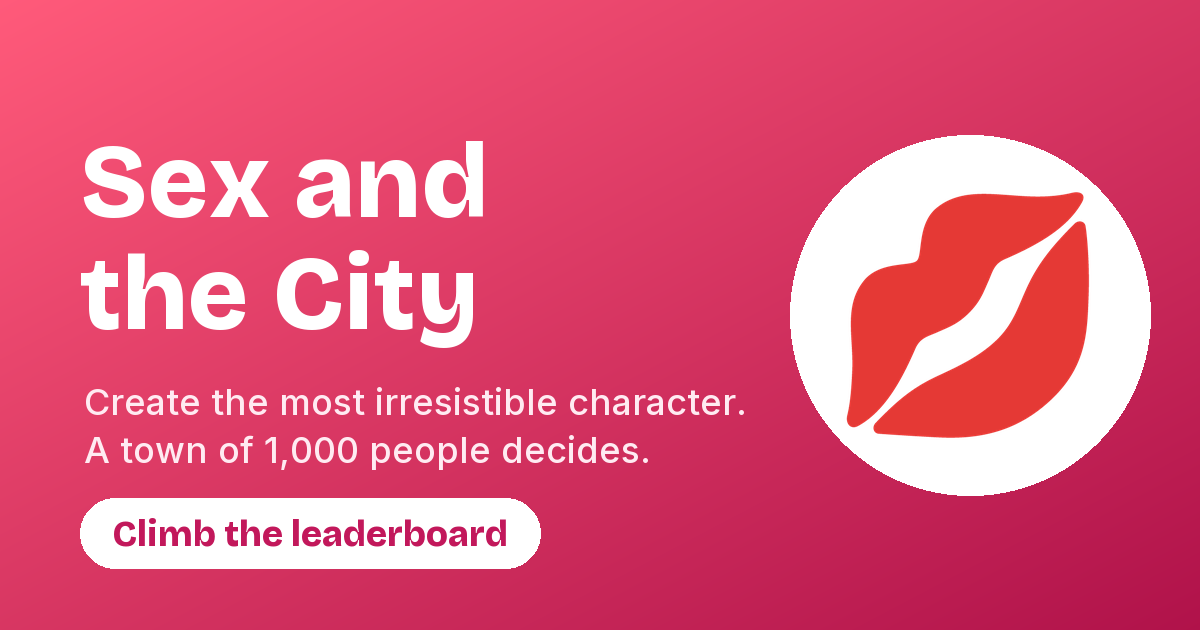
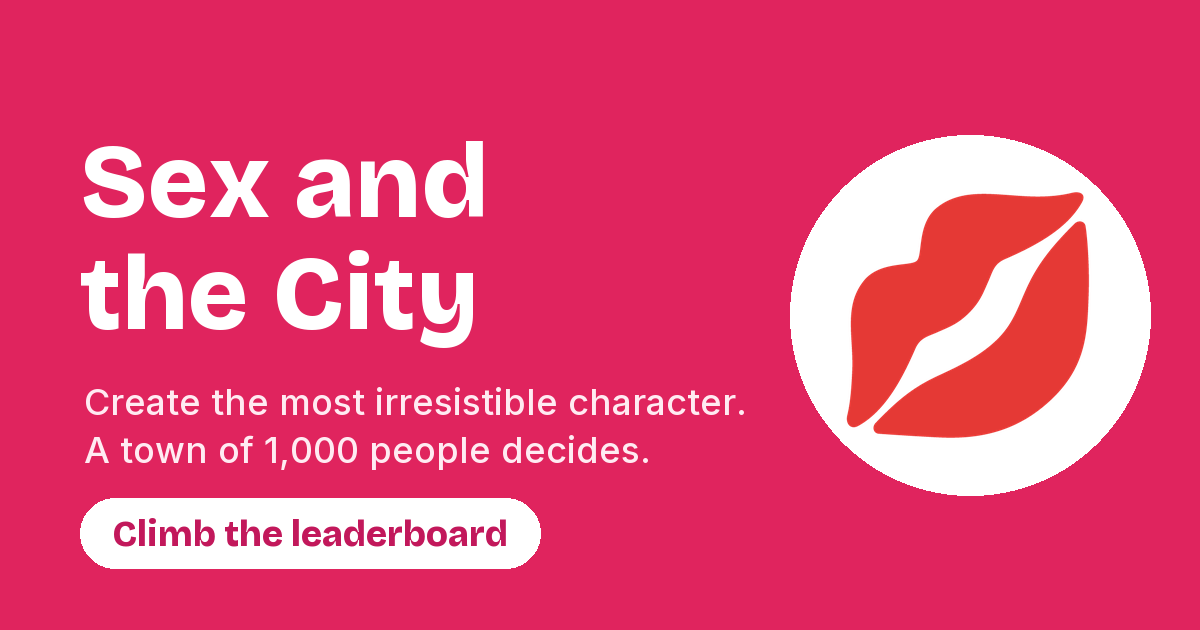
flat rose instead of gradients on the title, release button, share card and link preview; sliders keep theirs

diff --git a/index.html b/index.html
@@ -36,7 +36,7 @@
     /* character form: a game's character creator, over the town */
     #setup { inset: 0; margin: auto; width: min(1120px, 96vw); height: fit-content; max-height: 94dvh; overflow: auto; padding: 30px 34px; display: grid; grid-template-columns: 1fr 1.1fr; gap: 34px; background: rgba(255, 253, 251, 0.82); backdrop-filter: blur(14px) saturate(1.2); }
     #setup .col { display: grid; align-content: start; gap: 14px; min-width: 0; }
-    #setup h1 { margin: 0; font-size: 52px; font-weight: 800; letter-spacing: -0.04em; line-height: 0.95; background: linear-gradient(100deg, #e0245e, #ff7a45 55%, #8a3ffc); -webkit-background-clip: text; background-clip: text; color: transparent; }
+    #setup h1 { margin: 0; font-size: 52px; font-weight: 800; letter-spacing: -0.04em; line-height: 0.95; color: var(--rose); }
     #setup p.sub { margin: 0; color: var(--muted); line-height: 1.45; font-size: 15px; }
     #setup fieldset { border: 0; padding: 14px 16px 16px; margin: 0; border-radius: 16px; background: rgba(247, 243, 250, 0.85); display: grid; gap: 10px; }
     legend { float: left; width: 100%; display: flex; justify-content: space-between; align-items: baseline; font-size: 17px; font-weight: 700; margin-bottom: 2px; padding: 0; }
@@ -76,7 +76,7 @@
     #interests { grid-template-columns: none; display: flex !important; flex-wrap: wrap; gap: 6px; }
     #interests legend { margin-bottom: 4px; }
     #interests .chip span { padding: 6px 11px; font-size: 13px; }
-    .go { font-family: var(--display); font-size: 20px; font-weight: 800; padding: 16px 20px; border-radius: 16px; background: linear-gradient(100deg, #e0245e, #ff5a6a); box-shadow: 0 6px 18px rgba(224, 36, 94, 0.35); }
+    .go { font-family: var(--display); font-size: 20px; font-weight: 800; padding: 16px 20px; border-radius: 16px; background: var(--rose); box-shadow: 0 6px 18px rgba(224, 36, 94, 0.35); }
 
     /* playback HUD */
     #hud { bottom: 14px; left: calc((100vw - 388px) / 2); transform: translateX(-50%); padding: 8px 10px 8px 18px; display: none; gap: 8px; align-items: center; flex-wrap: wrap; max-width: calc(100vw - 416px); }

diff --git a/src/web/share.ts b/src/web/share.ts
@@ -14,9 +14,7 @@ export const shareText = (d: ShareData) =>
 export async function drawCard(d: ShareData): Promise<Blob> {
   await Promise.all([`800 100px ${DISPLAY}`, `600 40px ${BODY}`].map(f => document.fonts.load(f)));
   const c = Object.assign(document.createElement("canvas"), { width: W, height: H }), g = c.getContext("2d")!;
-  const bg = g.createLinearGradient(0, 0, W, H);
-  bg.addColorStop(0, "#ff5a7a"); bg.addColorStop(1, "#b0124a");
-  g.fillStyle = bg; g.fillRect(0, 0, W, H);
+  g.fillStyle = "#e0245e"; g.fillRect(0, 0, W, H);
   g.fillStyle = "white"; g.textBaseline = "alphabetic";
 
   // Wrap `text` to `width`, at most `lines` lines (the last one ellipsised); returns the y after it.

diff --git a/scripts/icons.py b/scripts/icons.py
@@ -13,7 +13,7 @@ from PIL import Image, ImageDraw, ImageFont
 ROOT = Path(__file__).resolve().parent.parent
 PUBLIC, CACHE = ROOT / "public", ROOT / "data/raw/noto"
 NOTO = "https://raw.githubusercontent.com/googlefonts/noto-emoji/main/2D"
-ROSE, DEEP = (255, 90, 122), (176, 18, 74)
+ROSE = (224, 36, 94)  # --rose in index.html
 
 
 def fetch(path):
@@ -32,25 +32,15 @@ def font(package, file, size, weight):
     return f
 
 
-def gradient(w, h):
-    img = Image.new("RGB", (w, h))
-    px = img.load()
-    for x in range(w):
-        for y in range(h):
-            t = (x / w + y / h) / 2
-            px[x, y] = tuple(round(a + (b - a) * t) for a, b in zip(ROSE, DEEP))
-    return img
-
-
 def main():
     kiss = Image.open(fetch("png/512/emoji_u1f48b.png")).convert("RGBA")
     (PUBLIC / "favicon.svg").write_bytes(fetch("svg/emoji_u1f48b.svg").read_bytes())
 
-    icon = Image.new("RGB", (180, 180), "white")  # red lips vanish on the pink gradient; white keeps them crisp
+    icon = Image.new("RGB", (180, 180), "white")  # red lips vanish on the rose; white keeps them crisp
     icon.paste(k := kiss.resize((136, 136), Image.LANCZOS), (22, 22), k)
     icon.save(PUBLIC / "apple-touch-icon.png")
 
-    og = gradient(1200, 630)
+    og = Image.new("RGB", (1200, 630), ROSE)
     d = ImageDraw.Draw(og)
     title = font("bricolage-grotesque", "bricolage-grotesque-latin-wght-normal.woff2", 104, 800)
     body = font("inter", "inter-latin-wght-normal.woff2", 36, 500)
